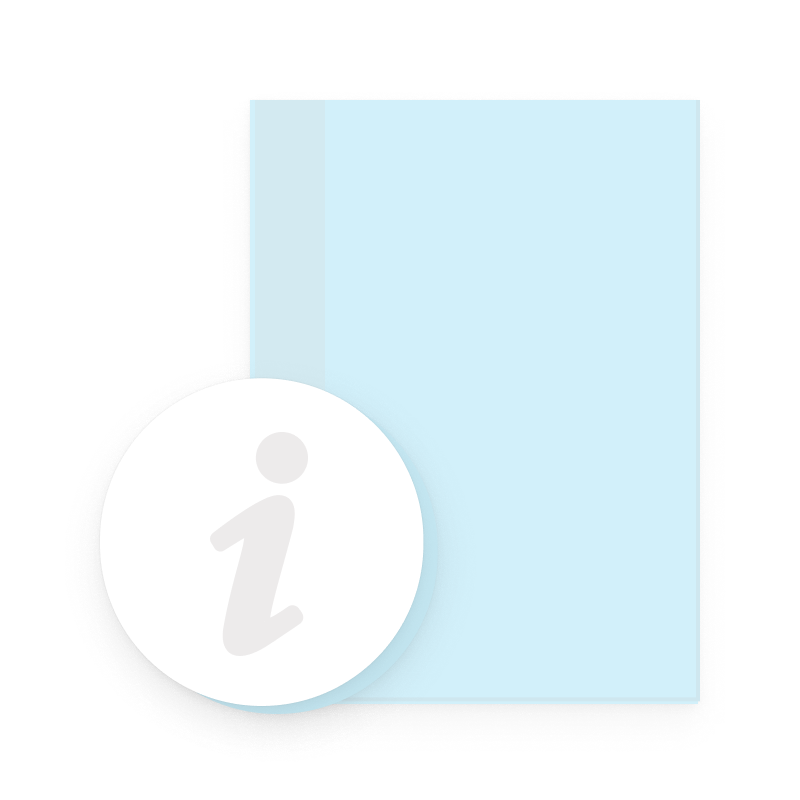
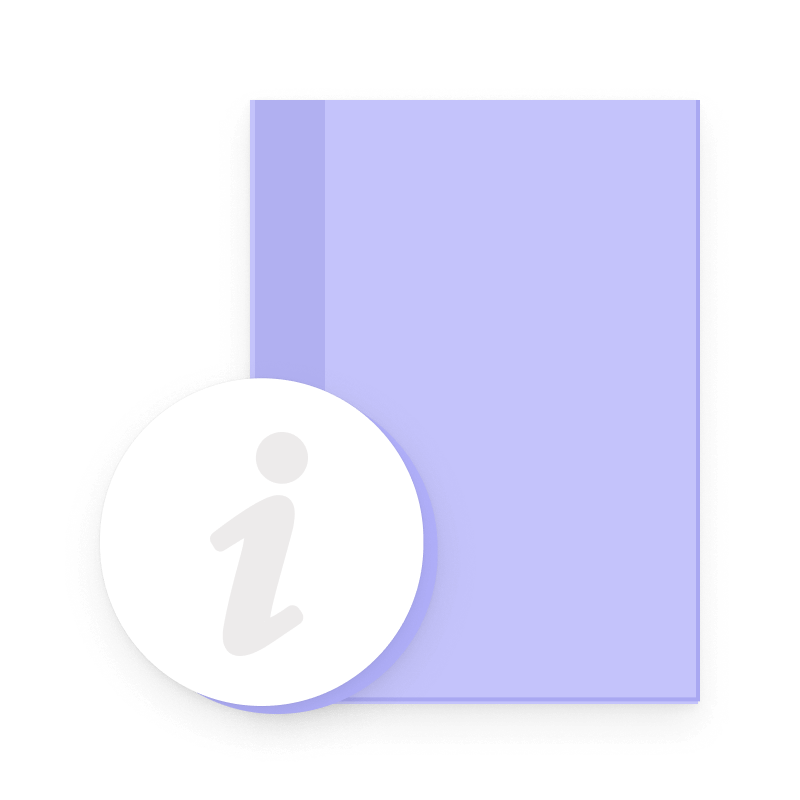
Further polish

diff --git a/the.js b/the.js
@@ -8,27 +8,7 @@ let windows = {
         data: windowData.about.windowHTML,
         // each window has a color scheme that matches it's icon:
         colors:{
-            main:"#B9DAE4",
-            dark:"#7BCEE7",
-            light:"#D0F4FF",
-        }
-    },
-    resume: {
-        titleBar: "Resume",
-        contentUrl: `resume.html`,
-        data: windowData.resume.windowHTML,
-        colors:{
-            main:"#B4C4FF;",
-            dark:"#708EF9",
-            light:"#DCE4FE",
-        }
-    },
-    casestudies: {
-        titleBar: "Case Study",
-        contentUrl: `casestudies.html`,
-        data: windowData.casestudies.windowHTML,
-        colors:{
-            main:"#A4A3D6;",
+            main:"#918FDE",
             dark:"#918FDE",
             light:"#EAEDFF",
         }
@@ -38,19 +18,40 @@ let windows = {
         contentUrl: `portfolio.html`,
         data: windowData.portfolio.windowHTML,
         colors:{
-            main:"#C1DBEA",
-            dark:"#6FB7E1",
-            light:"#EAF7FF",
+            main:"#96ABF8",
+            dark:"#96ABF8",
+            light:"#F1F4FE",
         }
     },
+    resume: {
+        titleBar: "Resume",
+        contentUrl: `resume.html`,
+        data: windowData.resume.windowHTML,
+        colors:{
+            main:"#99C1E8",
+            dark:"#99C1E8",
+            light:"#F1F8FE",
+        }
+    },
+    casestudies: {
+        titleBar: "Case Study",
+        contentUrl: `casestudies.html`,
+        data: windowData.casestudies.windowHTML,
+        colors:{
+            main:"#A6C9D4",
+            dark:"#A6C9D4",
+            light:"#F4FBFD",
+        }
+    },
+    
     contact: {
         titleBar: "Contact",
         contentUrl: `contact.html`,
         data: windowData.contact.windowHTML,
         colors:{
-            main:"#C5E8E6",
-            dark:"#73E5DD",
-            light:"#CFFCF9",
+            main:"#B5DCDA",
+            dark:"#B5DCDA",
+            light:"#F3FCFC",
         }
     },
 }
@@ -120,28 +121,28 @@ const topMenu = [{
 ]
 
 const desktopIcons = [{
-    named: "Case Study",
-    id: "casestudies",
+    named: "About",
+    id: "about",
     // icon for each desktop object:
-    img: "images/casestudies-icon.png",
+    img: "images/about-icon.png",
     // funciton to perform when icon is clicked:
-    whenClicked: "animateInWindow(windows.casestudies)",
-}, {
-    named: "Resume",
-    id: "resume",
-    img: "images/resume-icon.png",
-    whenClicked: "animateInWindow(windows.resume)",
-}, {
+    whenClicked: "animateInWindow(windows.about)",
+},{
     named: "Portfolio",
     id: "portfolio",
     img: "images/portfolio-icon.png",
     whenClicked: "animateInWindow(windows.portfolio)",
-}, {
-    named: "About",
-    id: "about",
-    img: "images/about-icon.png",
-    whenClicked: "animateInWindow(windows.about)",
-}, {
+},{
+    named: "Resume",
+    id: "resume",
+    img: "images/resume-icon.png",
+    whenClicked: "animateInWindow(windows.resume)",
+},{
+    named: "Case Study",
+    id: "casestudies",
+    img: "images/casestudies-icon.png",
+    whenClicked: "animateInWindow(windows.casestudies)",
+},{
     named: "Contact",
     id: "contact",
     img: "images/contact-icon.png",
@@ -320,15 +321,19 @@ function addShadowOnScroll() {
     {
         if (windowContainer.scrollTop > 2) {
             windowHeader.classList.add('scrolled');
-            pageCurl.classList.add('invisible');
+            pageCurl.classList.add('hide');
         } else {
             windowHeader.classList.remove('scrolled');
-            pageCurl.classList.remove('invisible');
+            pageCurl.classList.remove('hide');
         }
     }
 }
 
 function swapCssColorVariablesForWindow(window){
+
+    console.log(window.colors.dark);
+    console.log(window.colors.main);
+    console.log(window.colors.light);
     document.documentElement.style.setProperty('--windowColorMain', window.colors.main);
     document.documentElement.style.setProperty('--windowColorDark', window.colors.dark);
     document.documentElement.style.setProperty('--windowColorLight', window.colors.light);

diff --git a/OS.css b/OS.css
@@ -59,7 +59,7 @@ div {
     display: flex;
     flex-wrap: wrap;
     vertical-align: middle;
-    transition: margin-top 2.3s cubic-bezier(0.165, 0.84, 0.44, 1);
+    transition: margin-top 1s cubic-bezier(0.165, 0.84, 0.44, 1);
 }
 
 .menuItem {
@@ -150,9 +150,10 @@ div {
     width: 10vh;
     margin-left: 4vh;
     cursor: pointer;
-    transition: opacity 3s cubic-bezier(0.165, 0.84, 0.44, 1);
+    transition: opacity 1s cubic-bezier(0.165, 0.84, 0.44, 1),  transform 0.4s cubic-bezier(0.175, 0.885, 0.32, 1.275);
     opacity: 1;
     margin-bottom: 2vh;
+    transform:scale(1);
 }
 
 .icon:hover {
@@ -318,14 +319,14 @@ html {
 
 .invisible {
     opacity: 0 !important;
+    transform: scale(0.1)
 }
 
 
 /* Amnimation  */
 /* animating in the top menu bar by removing margin top */
 .slideIn {
-    margin-top: 1000px !important;
-    transition: margin-top 2s cubic-bezier(0.68, -0.55, 0.265, 1.55);
+    margin-top: 100px !important;
 
 }
 
